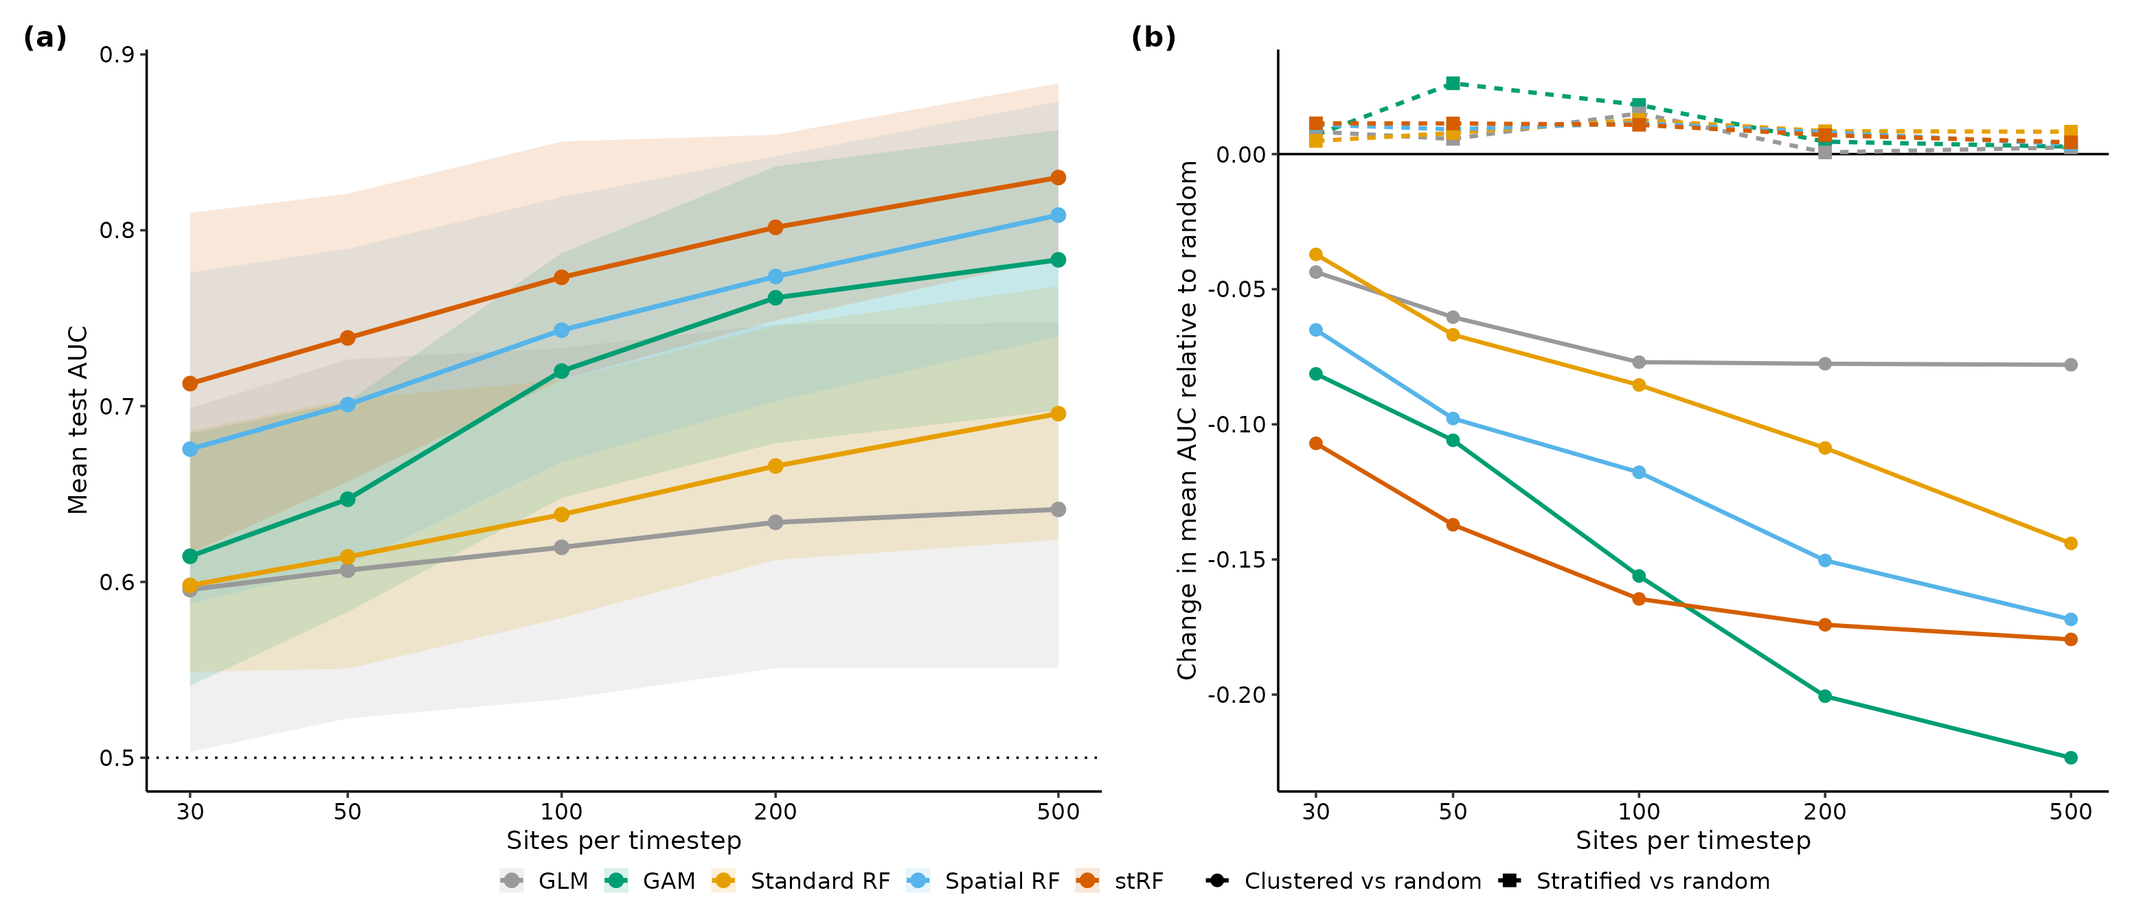
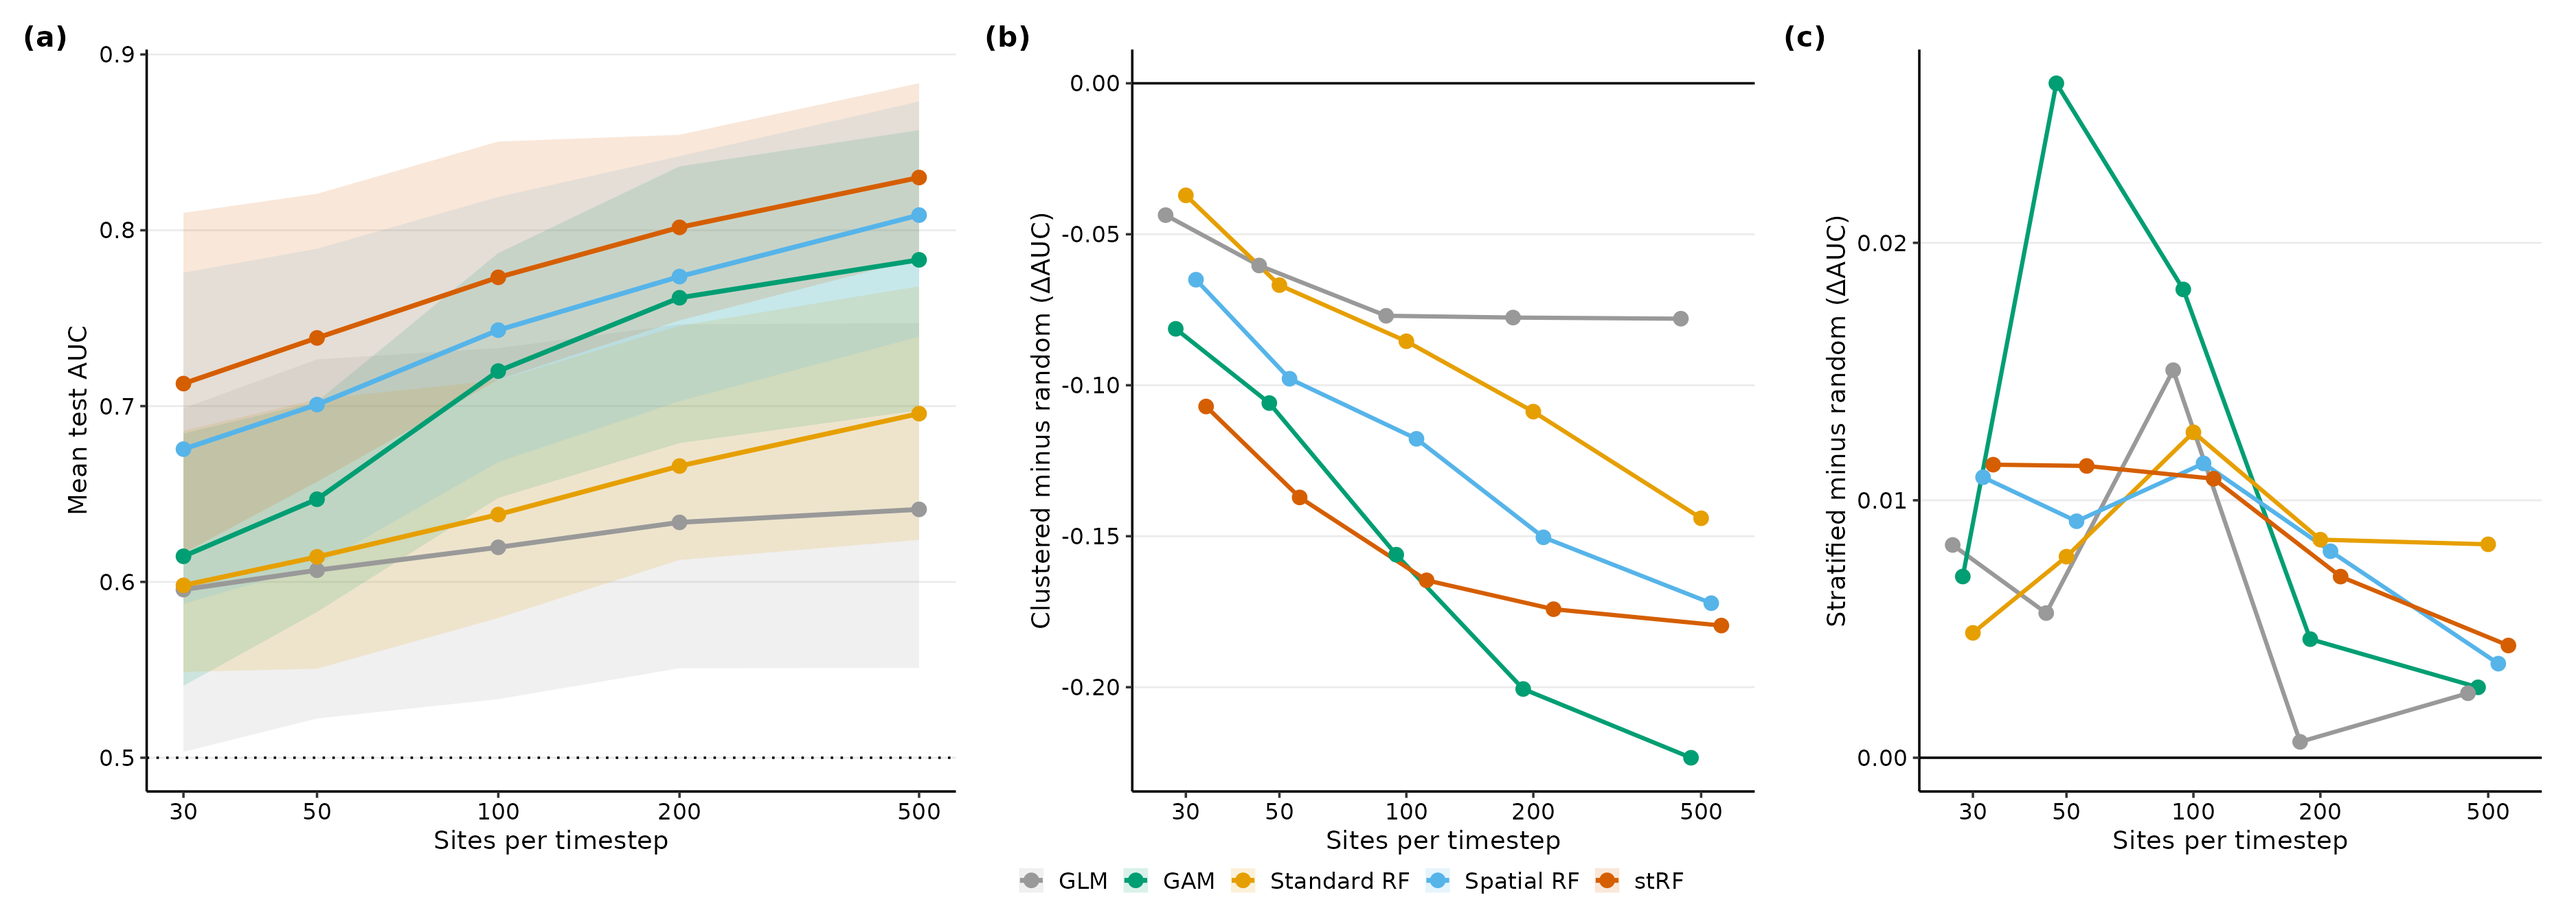
Figure 3: design effects in separate panels; Figure 4: restyled with offsets and jitter

diff --git a/NEWS.md b/NEWS.md
@@ -22,7 +22,8 @@ that revision remains in the history before 1.0.0.)
   discarded (3,774 datasets, 79,254 fits).
 * Figure 4 now resolves the temporal block by span, sample size and spatial
   coverage (tables T6 to T8, `02b_temporal_coverage.R`); the former pooled figure
-  is Supplement Figure S9.
+  is Supplement Figure S9. Figure 3 shows the clustered and stratified design
+  effects in separate panels.
 * `01_ablation_expanded.R` and `03_gam_core.R` accept `ABL_DESIGNS` to rerun a
   subset of designs; `05_si_figures_data.R`, `06_s6_sdmtmb.R` and `07_s6_pooled.R`
   attach ranger explicitly. The vignette is updated for the corrected designs.
